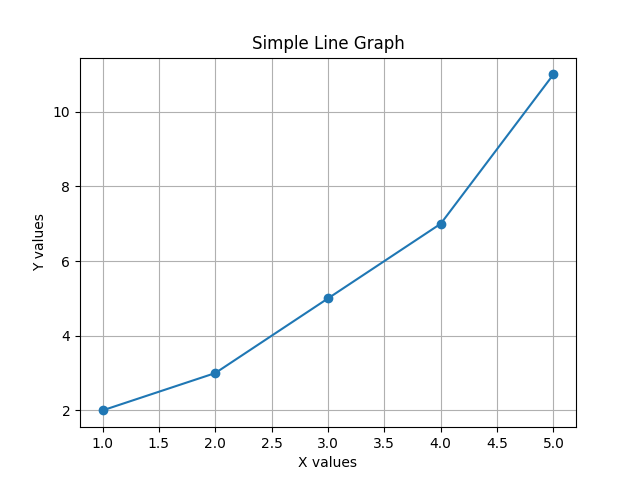
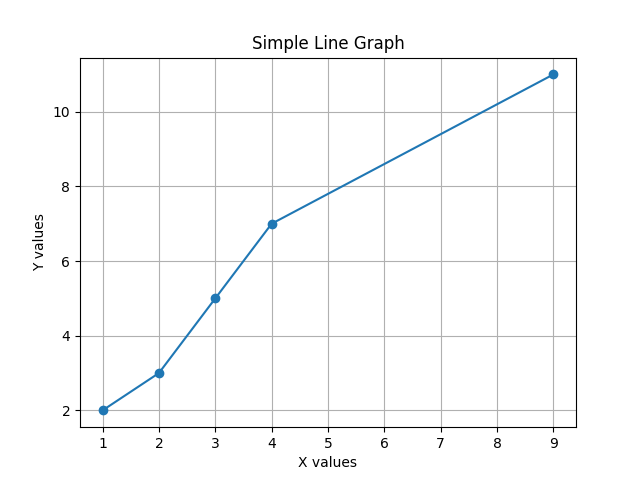
upd

diff --git a/packages/arveen.py b/packages/arveen.py
@@ -1,7 +1,7 @@
 import matplotlib.pyplot as plt
 
 # Sample data
-x = [1, 2, 3, 4, 5]
+x = [1, 2, 3, 4, 9]
 y = [2, 3, 5, 7, 11]
 
 # Create a simple line graph
